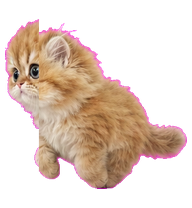
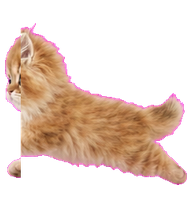
Accept running-right v2 with natural run proportions; re-derive running-left
Claude-Session: https://claude.ai/code/session_01WT5aebgmDY7s8cByVzbKAh

diff --git a/runs/xiaowei/TASK.md b/runs/xiaowei/TASK.md
@@ -1,34 +1,7 @@
-# 当前任务：running-right 重做 + 第 3 批六条动画条 — ChatGPT 版
+# 当前任务：第 3 批六条动画条 — ChatGPT 版
 
-进度：base ✅ · idle ✅ · running-right ⚠ 重做中 · running-left（随 running-right 自动重派生）
-
----
-
-## 任务 2b-重试：running-right.png（8 帧向右跑 · 调整头身比）
-
-第 1 版侧面跑姿头显得过大（大头娃娃感）。本次调整：**头和脸完全不变，
-身体在侧面拉长一点**，跑姿更自然。
-
-附：`canonical-base.png` + `layout-guides/running-right.png`
-
-```text
-请生成一张横向长条动画帧图（宽横版画布）。附图 1 是角色身份基准，附图 2 只用于理解 8 个等宽格子的排版（不要画出格子线）。
-
-Create one horizontal animation strip: exactly 8 full-body frames of the attached kitten character, left to right, evenly spaced in 8 invisible equal-width slots, one centered pose per slot, no overlap or clipping, on a perfectly flat pure magenta #FF00FF background.
-
-Identity: EXACTLY the same kitten as image 1 — same fur, colors, face, head, eyes and painting style. PROPORTION ADJUSTMENT for the running pose only: in side view the body should be visibly longer than in the seated base image — head-to-body ratio around 1:1.2 to 1:1.3 (body slightly longer than the head is tall), like a real kitten stretching out mid-run. Do NOT shrink or change the head/face itself; extend the torso and legs instead. The result must still read as the same chibi kitten, just stretched naturally into a run.
-
-State: running-right — scurrying to the RIGHT. Every frame faces right (nose, eyes and body pointing to the viewer's right) and reads as traveling right. Show the run through body and leg poses only: alternating gait across the 8 frames — legs extend and gather in different phases (reach, pull, tuck, push), body leans slightly forward, fluffy fur and tail follow with a slight lag. The 8 frames form one smooth cycle (frame 8 leads back into frame 1) and leg positions clearly DIFFER between neighboring frames.
-
-Keep the same apparent size and ground baseline in all frames. Do NOT draw speed lines, dust, motion trails, blur, floor shadows or any detached effects; no text, borders, scenery. Keep magenta/pink out of the kitten.
-
-要求：8 帧一行、等距不重叠、纯平品红背景；全部朝右、明显向右跑；
-头和脸保持与 base 一致，但侧面身体拉长到约头高的 1.2~1.3 倍，
-跑姿自然舒展；相邻帧腿部姿势明显不同、8 帧成循环；大小和地面
-基线一致。生成后给我原始尺寸文件下载。
-```
-
-生成后命名 `running-right.png` 上传覆盖，Claude 验收后会自动重新镜像 running-left。
+进度：base ✅ · idle ✅ · running-right ✅（v2 拉长身体版定稿）· running-left ✅（已重新镜像）
+标准动画行还差六条，全在下面，可并行。
 
 ---
 
